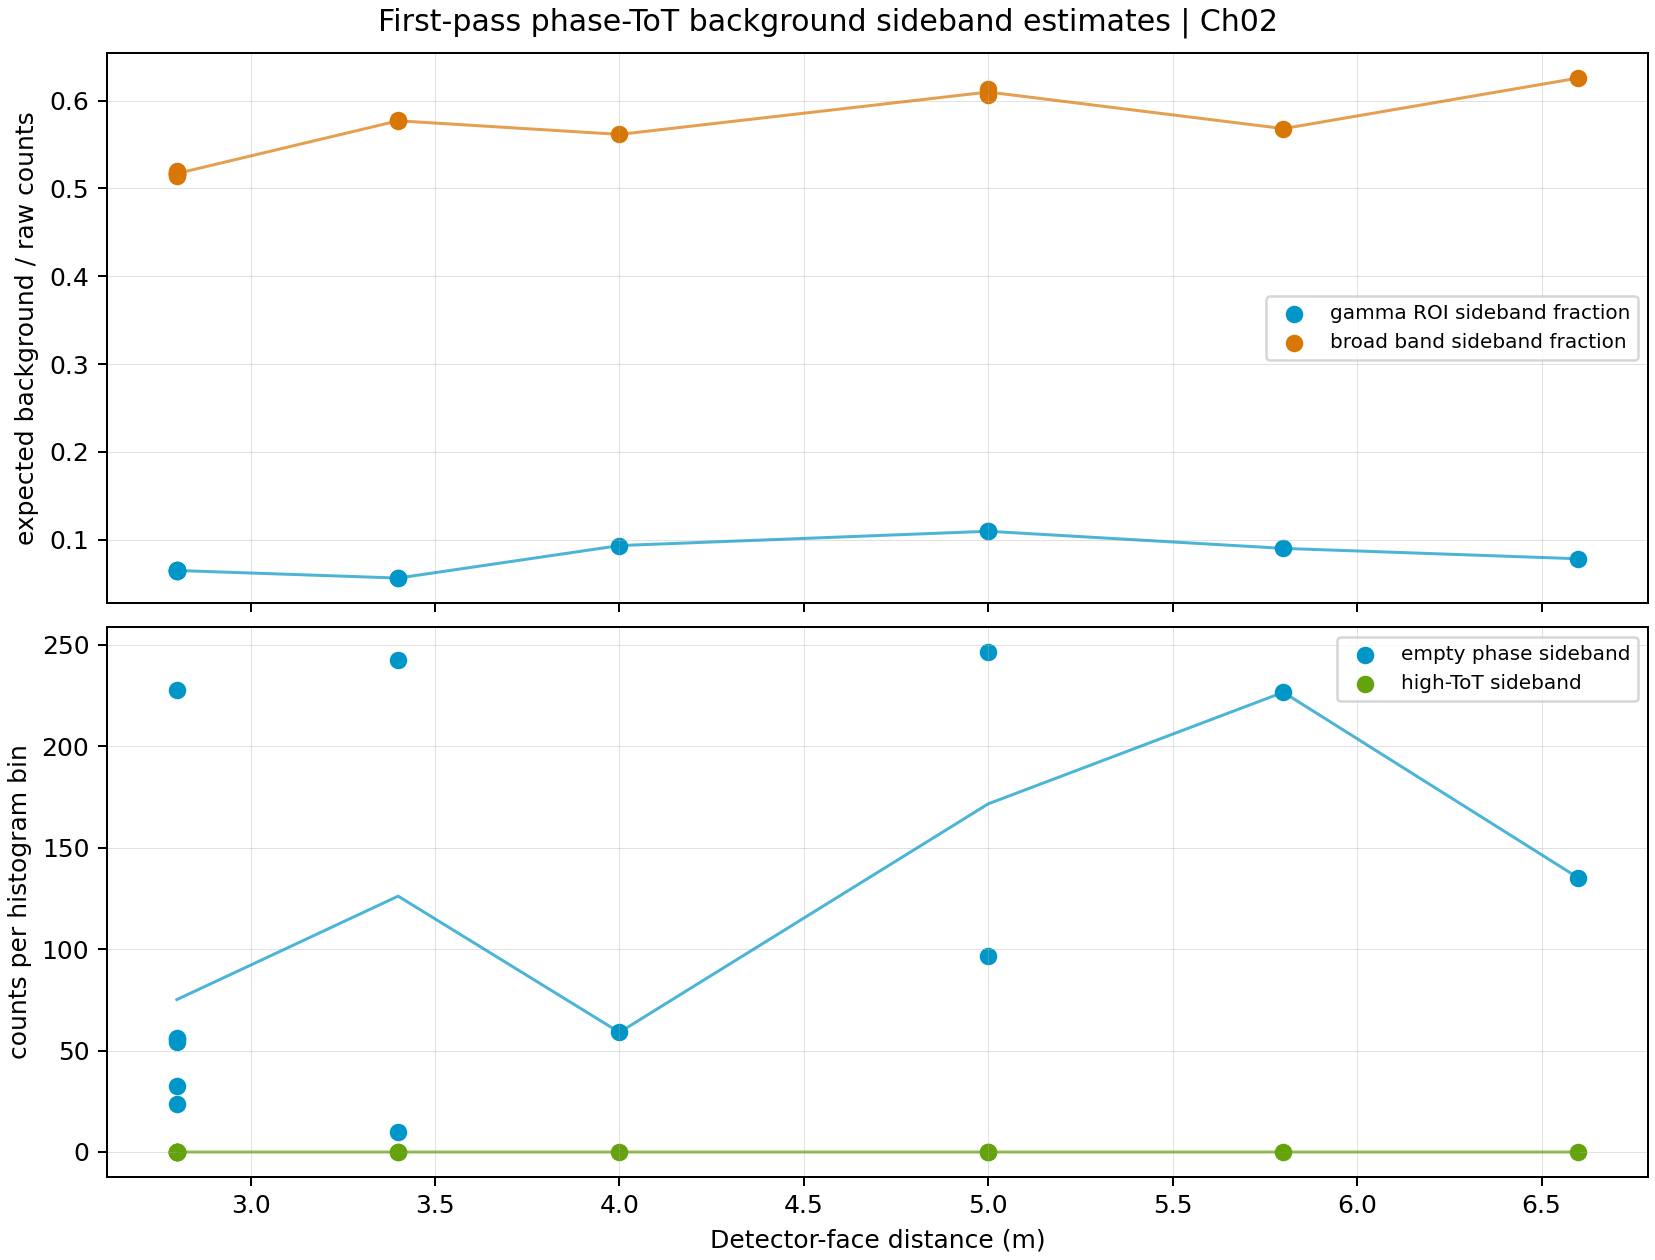
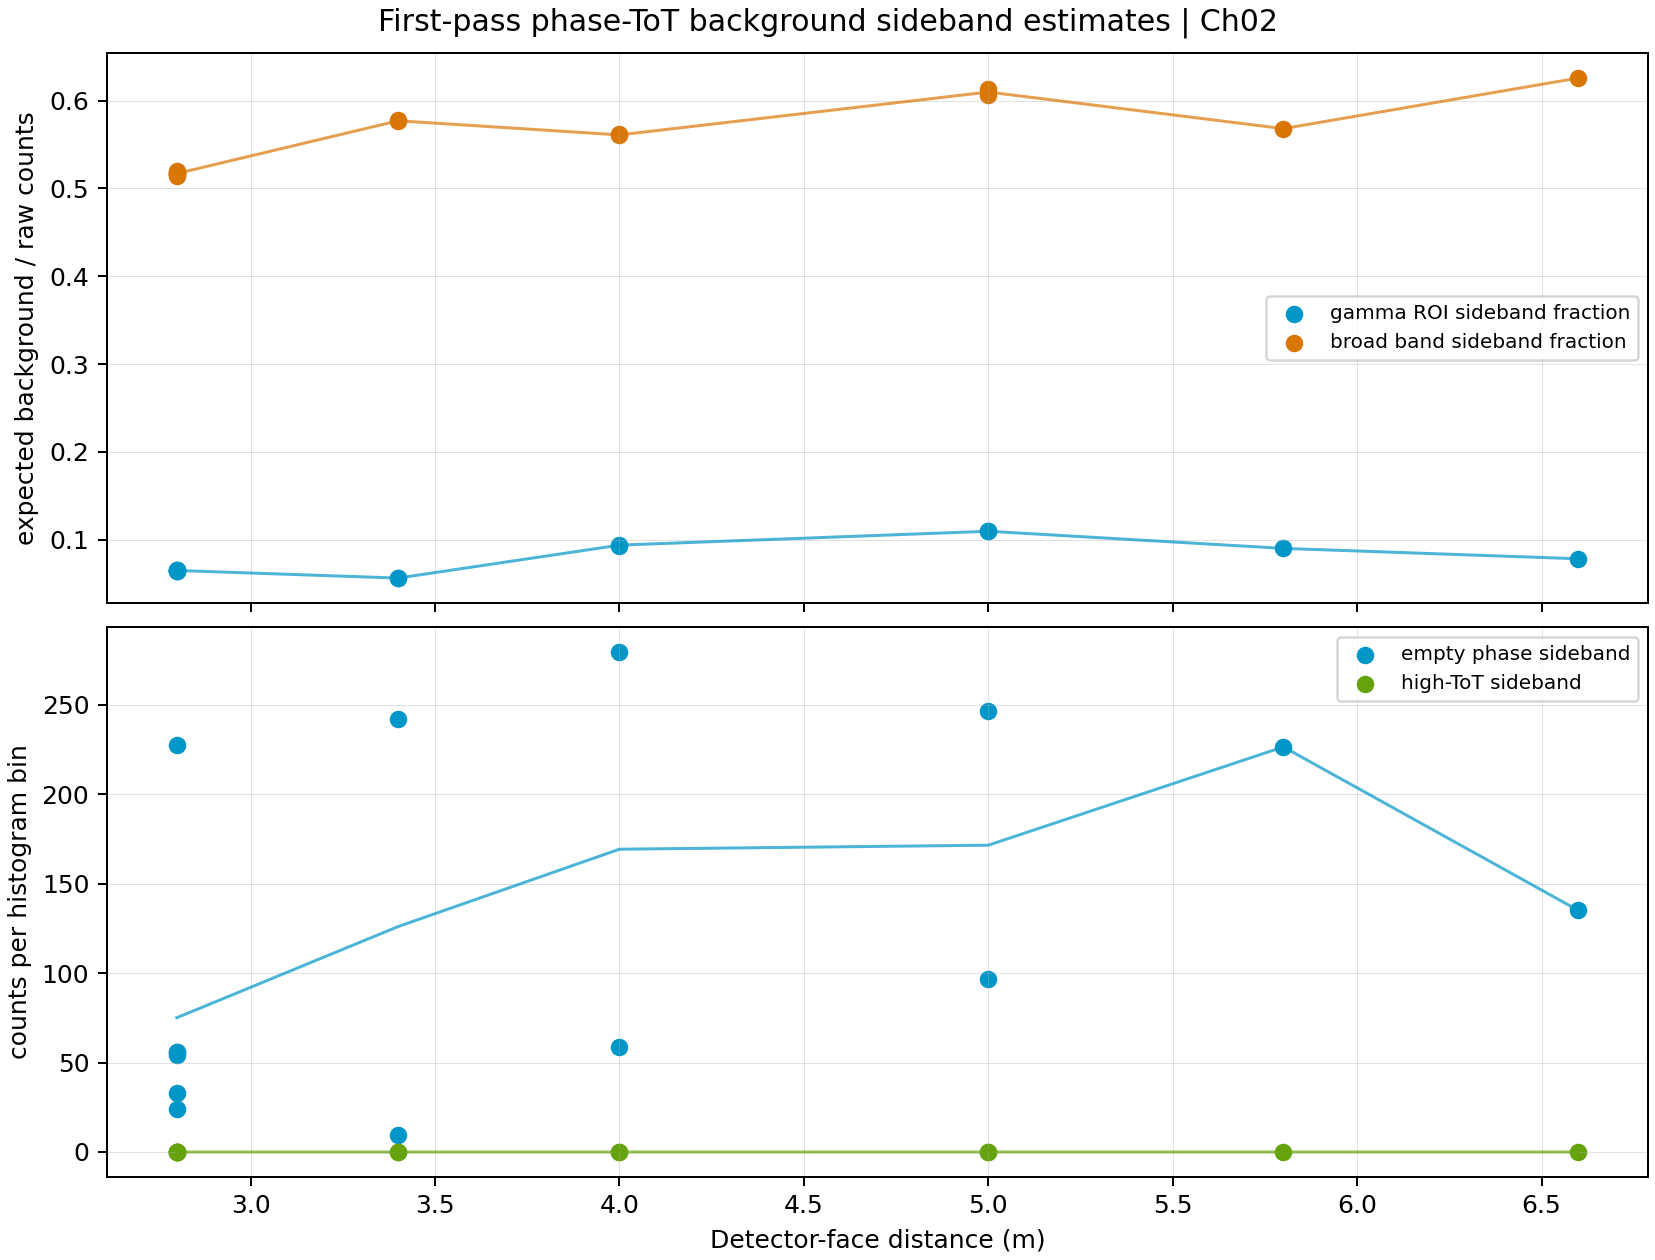
Record 4m recovery and refresh background outputs

diff --git a/Dogma_Analysis/Analysis/step04_dogma_cleaned_all_channel_rf_period.cpp b/Dogma_Analysis/Analysis/step04_dogma_cleaned_all_channel_rf_period.cpp
@@ -24,6 +24,7 @@ namespace {
 
 constexpr int kChannelCount = 32;
 constexpr double kTwoPi = 6.28318530717958647692;
+constexpr std::size_t kCycleResidualStatsLimit = 500000;
 constexpr std::size_t kCycleResidualPointLimit = 500000;
 
 struct Config {
@@ -65,6 +66,8 @@ struct Config {
     double segmentPhaseJumpNs = 3.0;
     double segmentGapFactor = 100.0;
     double segmentMinGapSeconds = 1.0;
+    bool singleRfSegment = false;
+    bool skipCycleResidualDiagnostics = false;
 };
 
 struct PulseRow {
@@ -770,6 +773,22 @@ std::vector<PhaseSegment> build_phase_segments(const Config& config,
     return segments;
 }
 
+PhaseSegment build_single_phase_segment(const std::vector<ScoredPulse>& scorePulses,
+                                        const CandidateMetrics& best) {
+    PhaseSegment segment;
+    segment.segmentId = 0;
+    segment.startPulseIndex = 0;
+    segment.endPulseIndex = scorePulses.size();
+    segment.phaseOriginNs = best.phaseOriginNs;
+    segment.scorePulses = static_cast<std::uint64_t>(scorePulses.size());
+    segment.reason = "single_segment";
+    if (!scorePulses.empty()) {
+        segment.startGlobalTimeSeconds = scorePulses.front().globalTimeSeconds;
+        segment.endGlobalTimeSeconds = scorePulses.back().globalTimeSeconds;
+    }
+    return segment;
+}
+
 const PhaseSegment* find_phase_segment_for_time(const std::vector<PhaseSegment>& segments,
                                                 double globalTimeSeconds) {
     if (segments.empty() || !std::isfinite(globalTimeSeconds)) {
@@ -1023,6 +1042,10 @@ Config parse_args(int argc, char** argv) {
             config.segmentGapFactor = std::stod(argv[++index]);
         } else if (arg == "--segment-min-gap-seconds" && index + 1 < argc) {
             config.segmentMinGapSeconds = std::stod(argv[++index]);
+        } else if (arg == "--single-rf-segment") {
+            config.singleRfSegment = true;
+        } else if (arg == "--skip-cycle-residual-diagnostics") {
+            config.skipCycleResidualDiagnostics = true;
         } else if (arg == "--help") {
             std::cout
                 << "Usage: dogma_cleaned_all_channel_rf_period --input <cleaned_pulses.tsv> --output-root <Results_root>\n"
@@ -1037,7 +1060,8 @@ Config parse_args(int argc, char** argv) {
                 << "  [--ch0-valid-rise-min-ns -410] [--ch0-valid-rise-max-ns -395]\n"
                 << "  [--ch0-valid-tot-min-ns 16.5] [--ch0-valid-tot-max-ns 19.5]\n"
                 << "  [--segment-block-score-pulses 20000] [--segment-persistent-blocks 2]\n"
-                << "  [--segment-phase-jump-ns 3.0] [--segment-gap-factor 100] [--segment-min-gap-seconds 1.0]\n";
+                << "  [--segment-phase-jump-ns 3.0] [--segment-gap-factor 100] [--segment-min-gap-seconds 1.0]\n"
+                << "  [--single-rf-segment] [--skip-cycle-residual-diagnostics]\n";
             std::exit(0);
         } else {
             throw std::runtime_error("Unknown or incomplete argument: " + arg);
@@ -1339,7 +1363,14 @@ std::vector<CycleResidualStats> build_cycle_residuals(const Config& config,
     };
 
     std::map<std::int64_t, Accumulator> accumulators;
-    for (const ScoredPulse& pulse : scorePulses) {
+    // Long runs can touch millions of RF cycles. Keep this diagnostic bounded so
+    // it cannot dominate the memory footprint after the RF solution is found.
+    const std::size_t sourceStride = std::max<std::size_t>(
+        1,
+        (scorePulses.size() + kCycleResidualStatsLimit - 1) / kCycleResidualStatsLimit
+    );
+    for (std::size_t pulseIndex = 0; pulseIndex < scorePulses.size(); pulseIndex += sourceStride) {
+        const ScoredPulse& pulse = scorePulses[pulseIndex];
         const double timeNs = static_cast<double>(pulse.timeNs);
         const double phaseNs = positive_mod(timeNs - best.phaseOriginNs, best.periodNs);
         const double residualNs = wrap_centered(phaseNs, best.periodNs);
@@ -1975,6 +2006,8 @@ void write_summary(const fs::path& outputPath,
     output << "rf_segment_phase_jump_ns=" << format_double(config.segmentPhaseJumpNs) << '\n';
     output << "rf_segment_gap_factor=" << format_double(config.segmentGapFactor) << '\n';
     output << "rf_segment_min_gap_seconds=" << format_double(config.segmentMinGapSeconds) << '\n';
+    output << "single_rf_segment=" << (config.singleRfSegment ? "true" : "false") << '\n';
+    output << "skip_cycle_residual_diagnostics=" << (config.skipCycleResidualDiagnostics ? "true" : "false") << '\n';
     output << "peak_center_ns=" << format_double(best.peakCenterNs) << '\n';
     output << "peak_height=" << best.peakHeight << '\n';
     output << "selected_pulses=" << best.selectedPulses << '\n';
@@ -2074,10 +2107,18 @@ int main(int argc, char** argv) {
         const CandidateMetrics best = best_valid_candidate(scanRows);
         const Histogram1D bestPhaseProfile = build_best_phase_profile(config, scorePulses, best);
         Histogram2D bestPhaseTot = make_best_phase_tot_histogram(config, best);
-        const std::vector<CycleResidualStats> cycleResiduals = build_cycle_residuals(config, scorePulses, best);
-        const std::vector<CycleResidualPoint> cycleResidualPoints = build_cycle_residual_points(config, scorePulses, best);
-        const std::vector<PhaseBlock> phaseBlocks = build_phase_blocks(config, scorePulses, best.periodNs);
-        const std::vector<PhaseSegment> phaseSegments = build_phase_segments(config, scorePulses, phaseBlocks, best);
+        const std::vector<CycleResidualStats> cycleResiduals = config.skipCycleResidualDiagnostics
+            ? std::vector<CycleResidualStats>{}
+            : build_cycle_residuals(config, scorePulses, best);
+        const std::vector<CycleResidualPoint> cycleResidualPoints = config.skipCycleResidualDiagnostics
+            ? std::vector<CycleResidualPoint>{}
+            : build_cycle_residual_points(config, scorePulses, best);
+        const std::vector<PhaseBlock> phaseBlocks = config.singleRfSegment
+            ? std::vector<PhaseBlock>{}
+            : build_phase_blocks(config, scorePulses, best.periodNs);
+        const std::vector<PhaseSegment> phaseSegments = config.singleRfSegment
+            ? std::vector<PhaseSegment>{build_single_phase_segment(scorePulses, best)}
+            : build_phase_segments(config, scorePulses, phaseBlocks, best);
 
         const int foldedBins = std::max(16, static_cast<int>(std::llround(best.periodNs / config.phaseBinWidthNs)));
         const int folded3xBins = 3 * foldedBins;

diff --git a/Dogma_Analysis/Analysis/step04_run_cleaned_all_channel_rf_period.py b/Dogma_Analysis/Analysis/step04_run_cleaned_all_channel_rf_period.py
@@ -70,6 +70,8 @@ def parse_args() -> argparse.Namespace:
     parser.add_argument("--peak-window-ns", type=float, default=8.0)
     parser.add_argument("--min-selected-pulses", type=int, default=1000)
     parser.add_argument("--score-stride", type=int, default=1)
+    parser.add_argument("--single-rf-segment", action="store_true")
+    parser.add_argument("--skip-cycle-residual-diagnostics", action="store_true")
     parser.add_argument("--ch0-valid-rise-min-ns", type=float, default=-410.0)
     parser.add_argument("--ch0-valid-rise-max-ns", type=float, default=-395.0)
     parser.add_argument("--ch0-valid-tot-min-ns", type=float, default=16.5)
@@ -98,7 +100,7 @@ def main() -> None:
     run_command([sys.executable, "-m", "py_compile", str(writer_path)])
     run_command([sys.executable, "-m", "py_compile", str(scan_writer_path)])
 
-    run_command([
+    analyzer_command = [
         str(analyzer_executable),
         "--input",
         str(input_path),
@@ -158,7 +160,12 @@ def main() -> None:
         str(args.ch0_valid_tot_min_ns),
         "--ch0-valid-tot-max-ns",
         str(args.ch0_valid_tot_max_ns),
-    ])
+    ]
+    if args.single_rf_segment:
+        analyzer_command.append("--single-rf-segment")
+    if args.skip_cycle_residual_diagnostics:
+        analyzer_command.append("--skip-cycle-residual-diagnostics")
+    run_command(analyzer_command)
 
     run_dir = output_root / run_key
     ch0ref_file = run_dir / "Ch0_ref_Rates" / f"{run_key}_Ch0_ref_Rates_scan_matrix.tsv"

diff --git a/Dogma_Analysis/Analysis/step05_estimate_gamma_neutron_background.py b/Dogma_Analysis/Analysis/step05_estimate_gamma_neutron_background.py
@@ -412,7 +412,7 @@ def draw_overlay(histogram: SparseHistogram, result: RunResult, diagnostic: dict
 def write_summary_table(results: list[RunResult], output_path: Path) -> None:
     fieldnames = [field for field in RunResult.__dataclass_fields__]
     with output_path.open("w", encoding="utf-8", newline="") as handle:
-        writer = csv.DictWriter(handle, fieldnames=fieldnames, delimiter="\t")
+        writer = csv.DictWriter(handle, fieldnames=fieldnames, delimiter="\t", lineterminator="\n")
         writer.writeheader()
         for result in results:
             row = {field: getattr(result, field) for field in fieldnames}
@@ -438,7 +438,7 @@ def write_position_summary_table(results: list[RunResult], output_path: Path) ->
     ]
     positions = sorted({result.position_m for result in results})
     with output_path.open("w", encoding="utf-8", newline="") as handle:
-        writer = csv.DictWriter(handle, fieldnames=fieldnames, delimiter="\t")
+        writer = csv.DictWriter(handle, fieldnames=fieldnames, delimiter="\t", lineterminator="\n")
         writer.writeheader()
         for position_m in positions:
             group = [result for result in results if result.position_m == position_m]

diff --git a/Dogma_Analysis/Reference/dogma_analysis_workflow_status_2026-06-30.md b/Dogma_Analysis/Reference/dogma_analysis_workflow_status_2026-06-30.md
@@ -53,8 +53,8 @@ Checked on 2026-06-30 from the Mac with direct `ssh padiwa`.
 - `/data6/Data` contains `26` top-level `.dld.dat` files. Several calibration/source files in that list are zero-byte placeholders.
 - `/data6/Data/Refined_Data` contains `16` refined directories, including real NCAL runs, mock data, the old first test, and one subset directory.
 - `/data6/Dogma_analysis_by_Dachi/Results` contains a complete mock-data chain and the main NCAL run outputs.
-- Real NCAL runs with final RF-annotated `CleanedHits` summaries: `13`.
-- One real run is incomplete at the cleaned production-chain level: `NCAL_20us_Pos_4m_0000` has step-02/step-03 outputs but no step-04 RF-period summary and no final cleaned-hit ROOT summary.
+- Real NCAL runs with final RF-annotated `CleanedHits` summaries: `14`.
+- `NCAL_20us_Pos_4m_0000` was recovered on 2026-06-30 after bounding the memory-heavy step-04 diagnostic path.
 
 ## Completed Real Runs
 
@@ -70,25 +70,26 @@ These runs have step-02, step-03, step-04, and final RF-annotated `CleanedHits` 
 | `NCAL_20us_Pos_2.8m_0006` | 38.85 | 27.24949 | 54764560 | 3 |
 | `NCAL_20us_Pos_3.4m_0000` | 38.85 | 30.562578 | 453246926 | 23 |
 | `NCAL_20us_Pos_3.4m_0001` | 38.85 | 30.600537 | 18145014 | 1 |
+| `NCAL_20us_Pos_4m_0000` | 38.8545 | 36.55429 | 466856858 | 24 |
 | `NCAL_20us_Pos_4m_0001` | 38.85 | 36.753742 | 95861910 | 5 |
 | `NCAL_20us_Pos_5m_0000` | 38.8495 | 37.612242 | 375580494 | 19 |
 | `NCAL_20us_Pos_5m_0001` | 38.8495 | 37.584363 | 145525832 | 8 |
 | `NCAL_20us_Pos_5.8m_0000` | 38.8495 | 1.368496 | 401078638 | 21 |
 | `NCAL_20us_Pos_6.6m_0000` | 38.85 | 2.267314 | 255908347 | 13 |
 
-The deduced RF period is stable at about `38.8495-38.85 ns` across completed runs. Phase origin changes with run/position, as expected for the chosen folding origin.
+The deduced RF period is stable at about `38.8495-38.8545 ns` across completed runs. Phase origin changes with run/position, as expected for the chosen folding origin.
 
-## Incomplete Run
+## Recovered Run
 
-`NCAL_20us_Pos_4m_0000` has:
+`NCAL_20us_Pos_4m_0000` now has:
 
 - refined pulse table: yes
 - step-02 cleaned rates: yes
 - step-03 time-vs-ToT: yes
-- step-04 RF-period products: missing
-- final RF-annotated `CleanedHits` ROOT summary: missing
+- step-04 RF-period products: yes
+- final RF-annotated `CleanedHits` ROOT summary: yes
 
-The old overnight batch report says this run failed at `step04_rf_period`. The current results tree still shows no `*_cleaned_rf_period_summary.txt` or `*_cleaned_hits_summary.txt` for this run.
+The old overnight batch report says this run failed at `step04_rf_period`. A direct full rerun on 2026-06-30 also reached the RF analyzer but was killed after the post-scan diagnostic path grew to nearly all available RAM. The successful recovery used `--score-stride 4`, `--single-rf-segment`, and `--skip-cycle-residual-diagnostics` for step 04, then wrote final `CleanedHits` with the recovered RF summary.
 
 ### Step-04 Diagnostic On 2026-06-30
 
@@ -107,8 +108,34 @@ Diagnostic commands were run only on `padiwa`.
 
 Interpretation: the current padiwa step-04 code path can process real `NCAL_20us_Pos_4m_0000` data on a subset. The most likely next action is a padiwa-only full step-04 rerun for `NCAL_20us_Pos_4m_0000` using the current code, followed by final `CleanedHits` writing if step 04 succeeds.
 
+### Recovery On 2026-06-30
+
+- Full step-04 recovery succeeded on `padiwa` using a bounded diagnostic path:
+  - `--score-stride 4`
+  - `--single-rf-segment`
+  - `--skip-cycle-residual-diagnostics`
+- Step-04 RF summary:
+  - `deduced_period_ns=38.8545`
+  - `phase_origin_ns=36.55429`
+  - `score_pulses_before_stride=77767392`
+  - `score_pulses_stored=19441848`
+  - `selected_pulses=11522836`
+  - `selected_fraction=0.592682`
+  - `sigma_ns=4.390381`
+  - `rf_segment_count=1`
+- The step-04 C++ analyzer completed in about `45 min` with maximum resident set size about `528 MB`.
+- The normal padiwa system Python lacked `matplotlib`/`uproot`; the step-04 writer scripts were run with `/home/padiwa/dogsoft/.venv/bin/python`.
+- Final `CleanedHits` export succeeded:
+  - `root_tree_entries=466856858`
+  - `root_tree_file_count=24`
+  - `root_tree_rf_period_ns=38.8545`
+  - `root_tree_rf_phase_origin_ns=36.55429`
+  - `root_tree_rf_segment_count=1`
+  - manifest: `/data6/Dogma_analysis_by_Dachi/Results/NCAL_20us_Pos_4m_0000/NCAL_20us_Pos_4m_0000_cleaned_hits_parts.txt`
+  - runtime: about `1 h 13 min`
+
 ## Interpretation
 
-The project is past raw exploration and into a cleaned-data production workflow. Most real NCAL position/tuning runs have been processed through the full chain, including RF-period deduction and final RF-annotated ROOT export. The immediate workflow gap is to rerun or debug step 04 for `NCAL_20us_Pos_4m_0000`, then write its final `CleanedHits` output if step 04 succeeds.
+The project is past raw exploration and into a cleaned-data production workflow. All listed real NCAL position/tuning runs have now been processed through the full chain, including RF-period deduction and final RF-annotated ROOT export. The main technical lesson from the `4m_0000` recovery is that long runs can make optional RF residual/segmentation diagnostics much larger than the physics outputs; use the bounded diagnostic flags when recovering similarly pathological runs.
 
 The local Mac/GitHub mirror is suitable for code/documentation work and small artifacts, but the authoritative large data/output state is still padiwa `/data6`.

diff --git a/Dogma_Analysis/Results/Gamma_Neutron_Background/README.md b/Dogma_Analysis/Results/Gamma_Neutron_Background/README.md
@@ -2,6 +2,10 @@
 
 This directory contains a first-pass sideband estimate from existing Folded_RF_3x phase-vs-ToT sparse histograms.
 
+Last refreshed: 2026-07-01 from padiwa `/data6` outputs.
+
+Included runs: 14 completed NCAL position-scan runs, including the recovered `NCAL_20us_Pos_4m_0000` run.
+
 Channel: Ch02
 
 Regions used:

diff --git a/.github/copilot-instructions.md b/.github/copilot-instructions.md
@@ -30,7 +30,8 @@
 
 - Edit locally, inspect code locally, and commit/sync through GitHub.
 - Execute DOGMA analysis commands only on `padiwa`, using the real `/data6` filesystem.
-- On `padiwa`/Linux environments used for this analysis, activate `conda_env` before Python commands when that environment is available/required.
+- The MacBook Pro workspace does not require `conda_env`; use it for editing, git operations, documentation, and lightweight inspection only.
+- Activate `conda_env` before DOGMA Python commands when working from the Dell laptop/Linux-side workflow where that environment exists.
 - Current cleaned-data entrypoints are:
   - `step01_run_dogma_raw_data_refiner.py`
   - `step02_run_cleaned_all_channel_rates.py`

diff --git a/Dogma_Analysis/Analysis/README.md b/Dogma_Analysis/Analysis/README.md
@@ -28,6 +28,7 @@ conda activate conda_env
 - `step04_write_cleaned_all_channel_rf_period_outputs.py`: writes step-04 ch0-ref RF timing, folded 1x profiles, folded 3x profiles, and folded phase-vs-ToT products.
 - `step04_write_rf_period_scan_outputs.py`: writes the dedicated RF-period-scan diagnostics in the old-style merit/sigma/residual format from the step-04 scan text outputs.
 - `step04_run_cleaned_all_channel_rf_period.py`: step-04 runner.
+  - For very long/pathological runs, `--score-stride`, `--single-rf-segment`, and `--skip-cycle-residual-diagnostics` can recover the RF summary and full-statistics folded outputs while keeping optional diagnostic memory bounded.
 - `step05_estimate_gamma_neutron_background.py`: first-pass channel-2 phase-vs-ToT sideband estimator for prompt-like ROI, broad neutron-candidate band, and local background control regions.
 
 ## Utility Files Kept Nearby